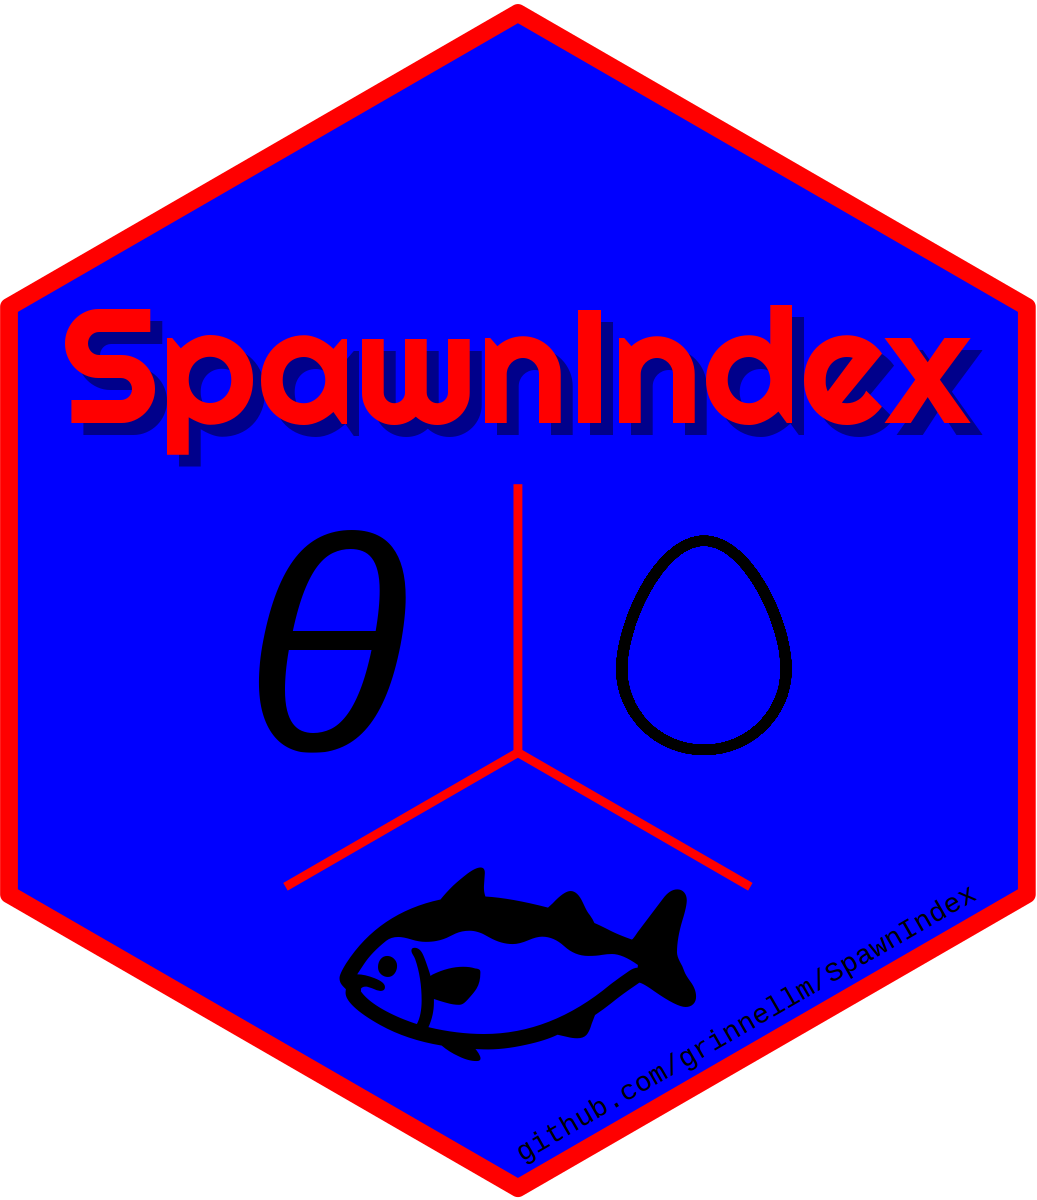
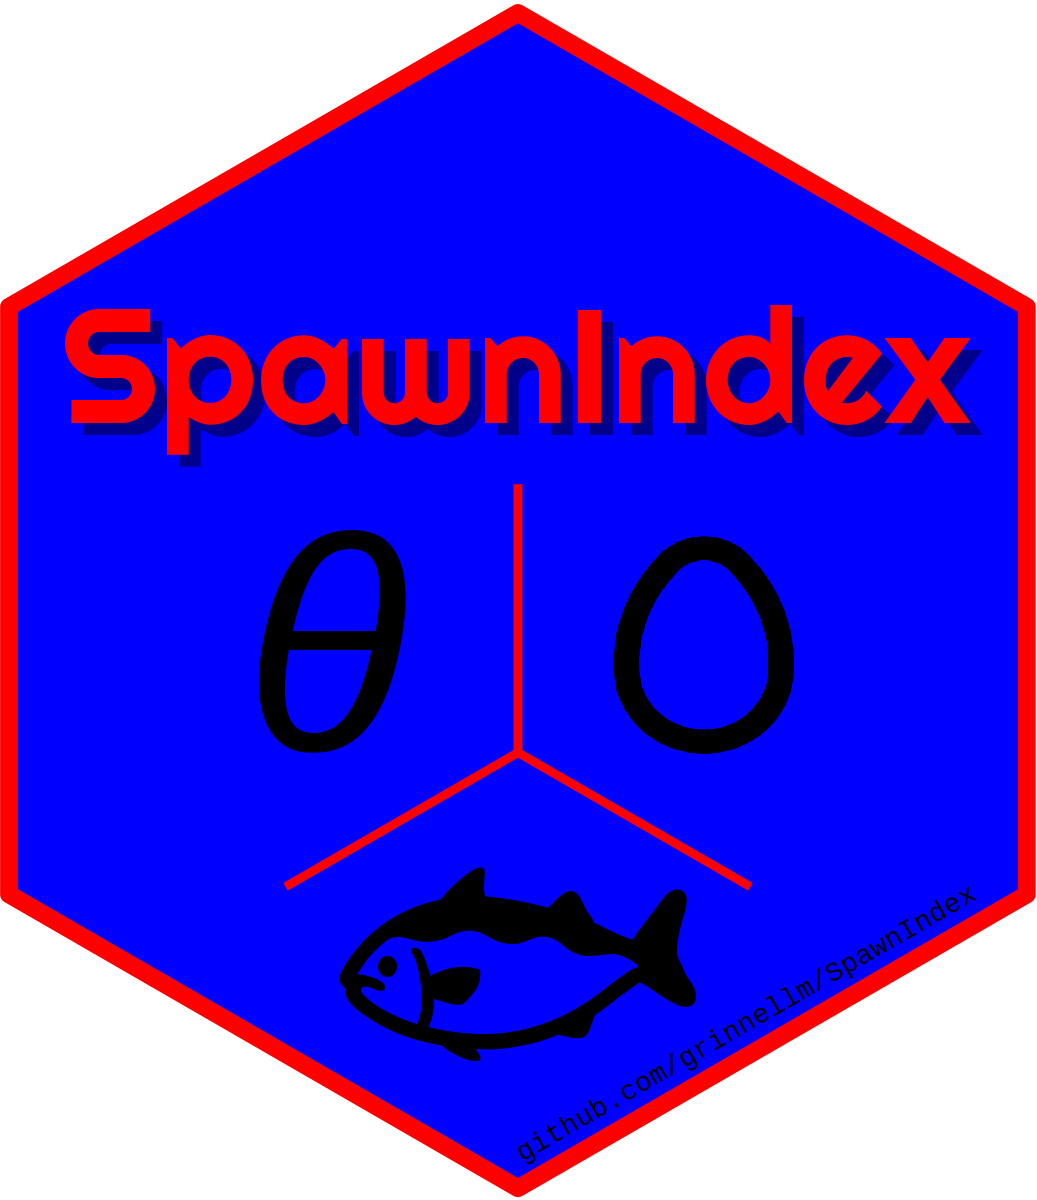
Update sticker

Changed region(s): [[0.5863, 0.4317, 0.7715, 0.6475]]

diff --git a/README.md b/README.md
@@ -1,5 +1,5 @@
 
-<!-- README.md is generated from README.Rmd. Please edit that file. -->
+<!-- README.md is generated from README.Rmd; please edit README.Rmd. -->
 
 # SpawnIndex <img src='man/sticker/sticker.png' align="right" height="200"/>
 
